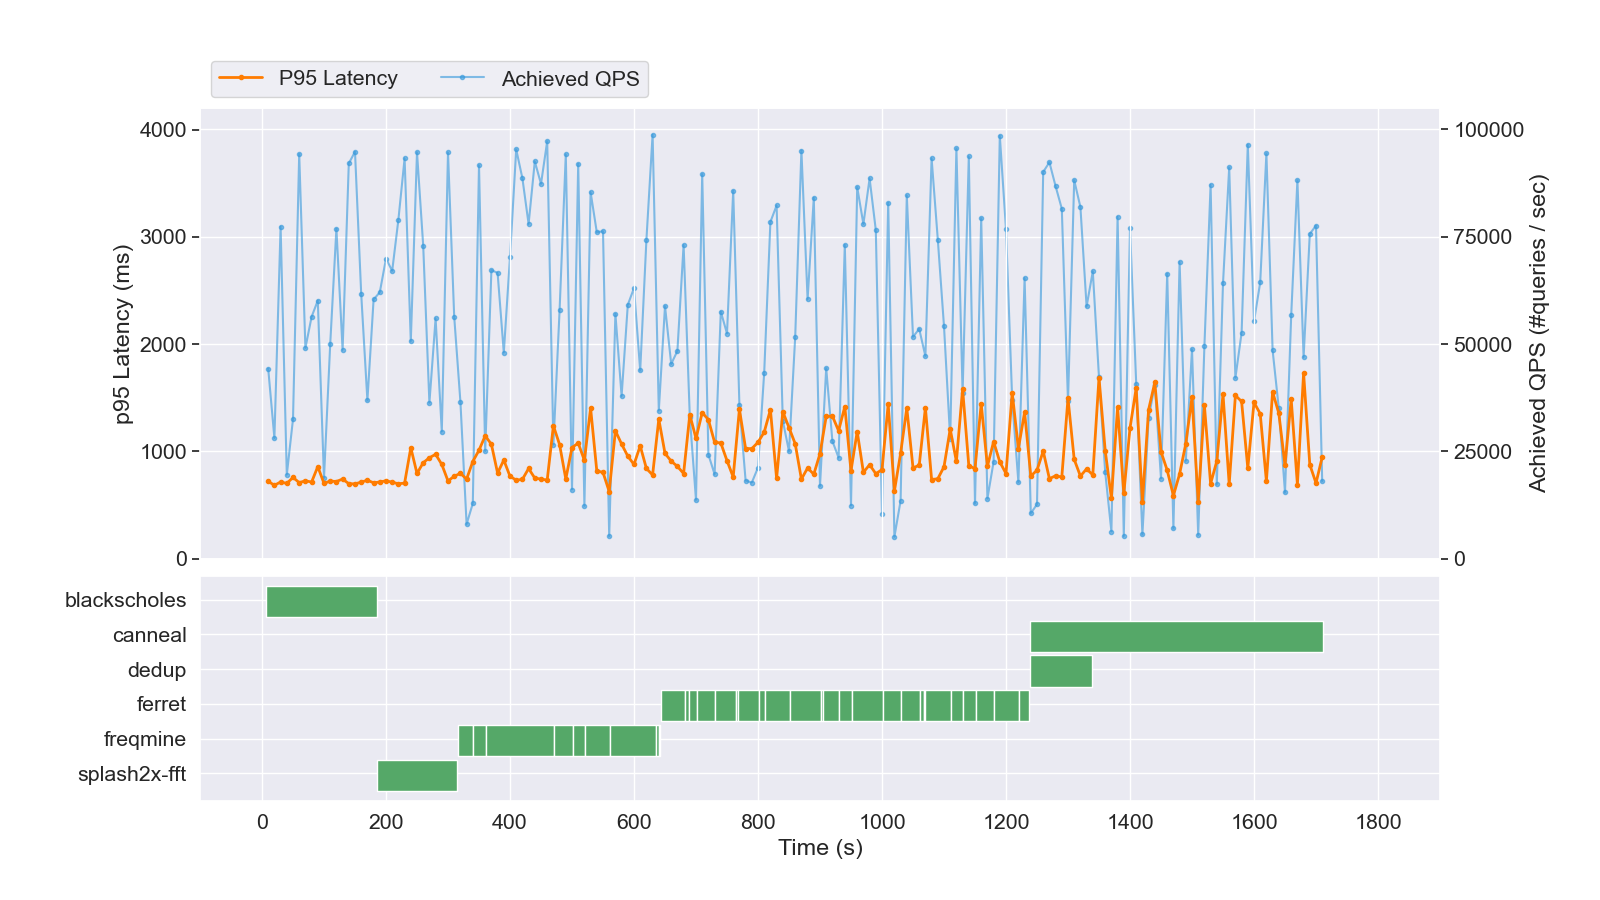
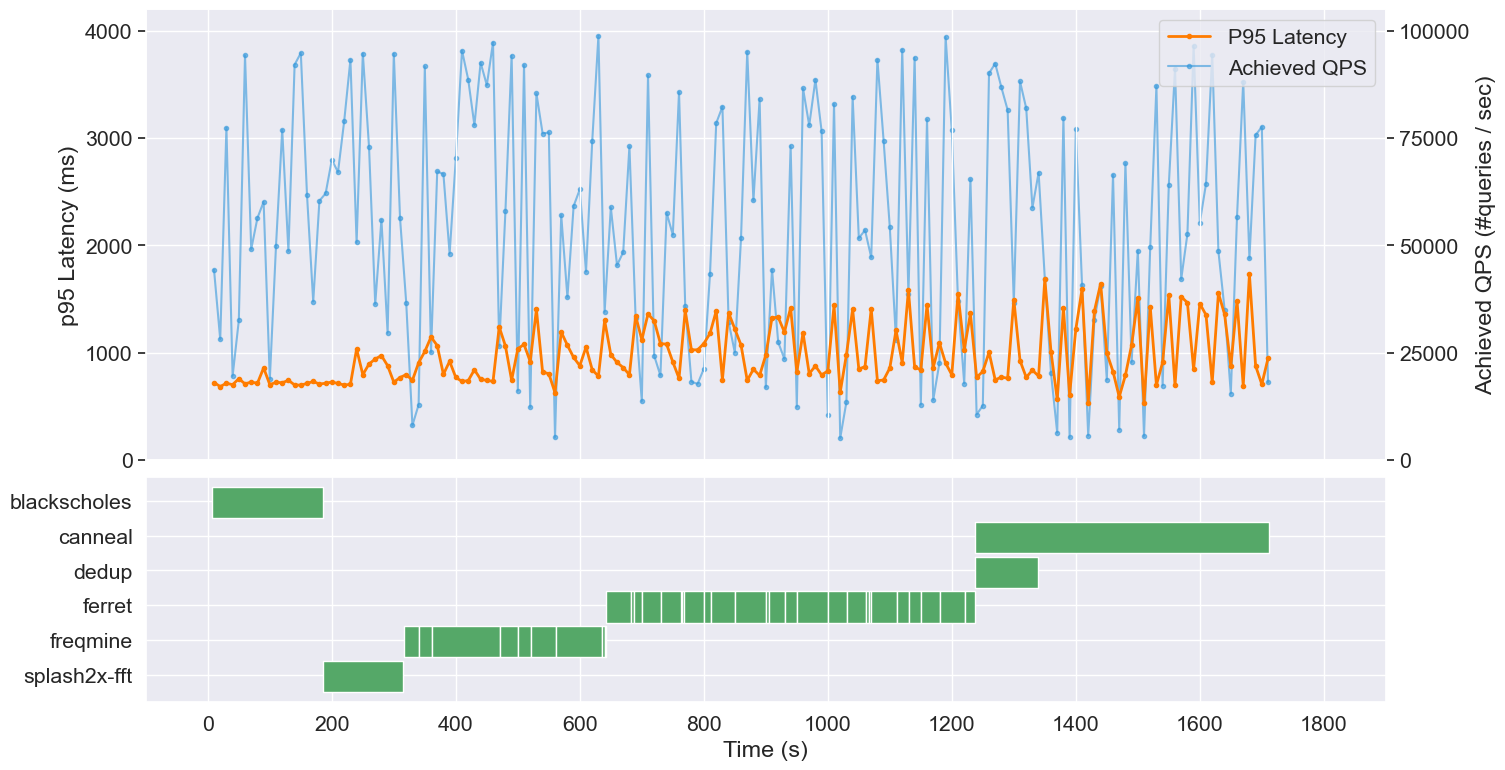
Updated scheduler plot legend and padding

diff --git a/part_4/scripts/plot_scheduler.py b/part_4/scripts/plot_scheduler.py
@@ -125,8 +125,7 @@ def main(results_dir, qps_interval):
     # Add legend
     lines = p95 + qps
     labels = [l.get_label() for l in lines]
-    ax1.legend(lines, labels, bbox_to_anchor=(
-        0, 1, 1, 0), loc="lower left", ncol=2)
+    ax1.legend(lines, labels, loc="upper right")
 
     # Axis ordering and alignment
     plt.xlim([-100, 1900])
@@ -153,7 +152,8 @@ def main(results_dir, qps_interval):
     ax_annot.set_xlabel('Time (s)')
 
     # Save
-    plt.savefig(os.path.join(results_dir, 'plot_a.png'))
+    plt.savefig(os.path.join(results_dir, 'plot_a.png'),
+                bbox_inches='tight')
 
     # Plot B
     sns.set(style='darkgrid', font_scale=1.4)
@@ -169,8 +169,7 @@ def main(results_dir, qps_interval):
 
     lines = cores + qps
     labels = [l.get_label() for l in lines]
-    ax1.legend(lines, labels, bbox_to_anchor=(
-        0, 1, 1, 0), loc="lower left", ncol=2)
+    ax1.legend(lines, labels, loc="upper right")
 
     plt.xlim([-100, 1900])
     plt.xticks(range(0, 1801, 200))
@@ -194,7 +193,8 @@ def main(results_dir, qps_interval):
     ax_annot.set_yticklabels(sorted(list(bm_intervals.keys()), reverse=True))
     ax_annot.set_xlabel('Time (s)')
 
-    plt.savefig(os.path.join(results_dir, 'plot_b.png'))
+    plt.savefig(os.path.join(results_dir, 'plot_b.png'),
+                bbox_inches='tight')
 
 
 if __name__ == '__main__':
